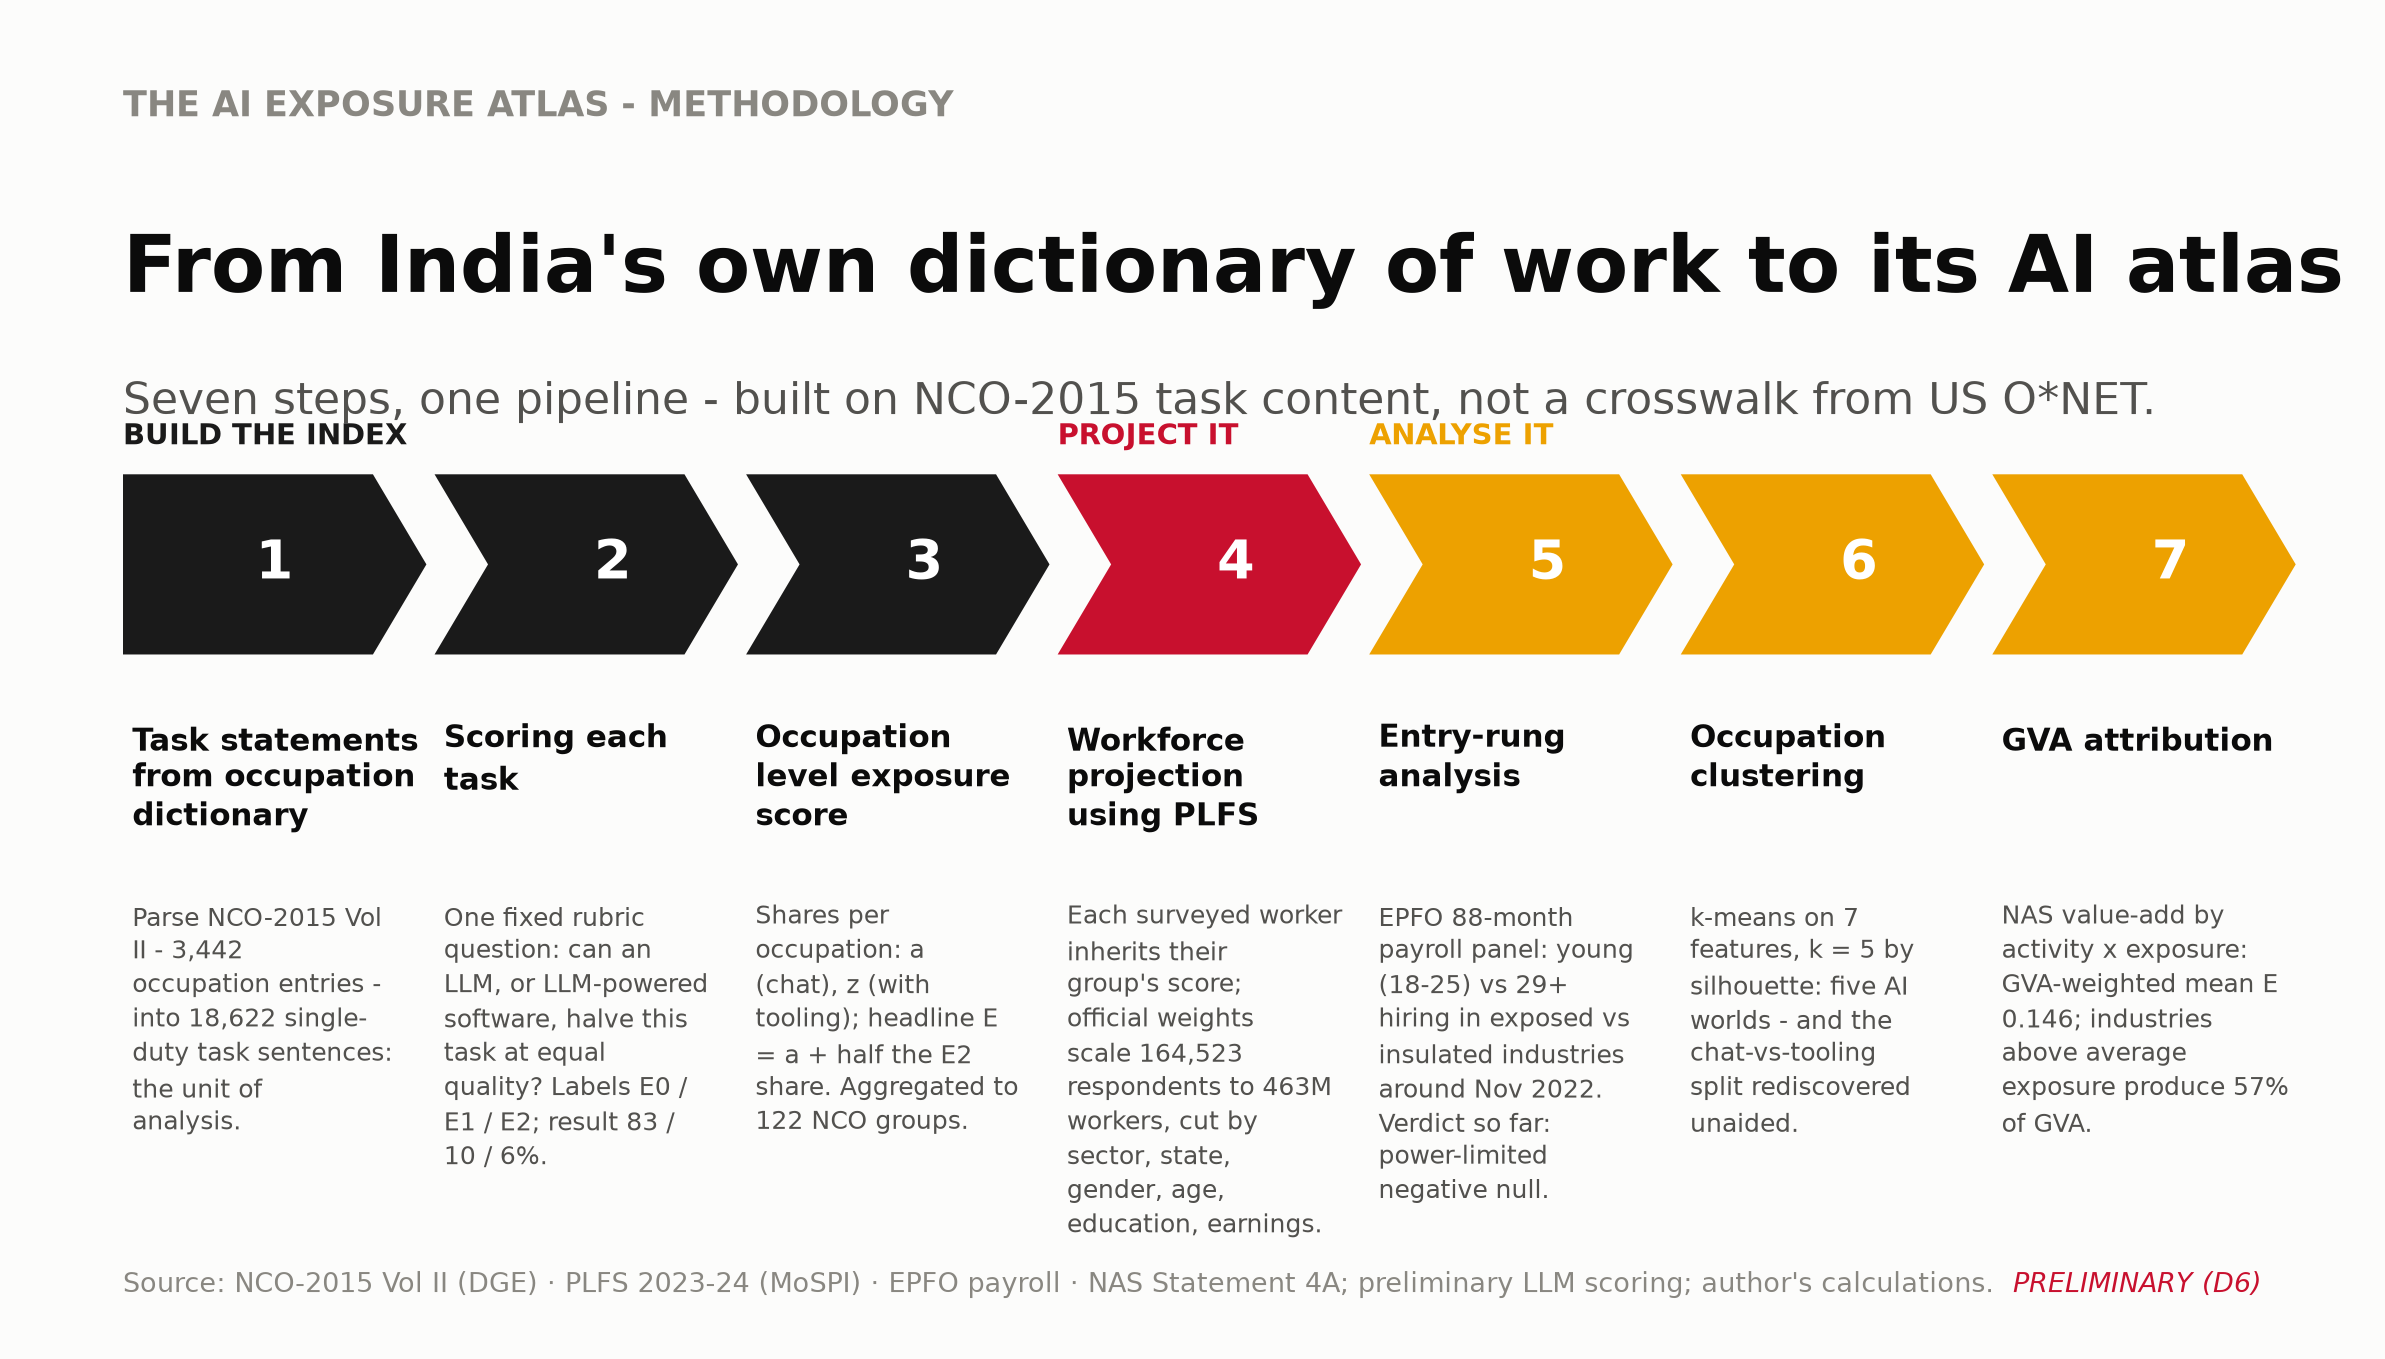
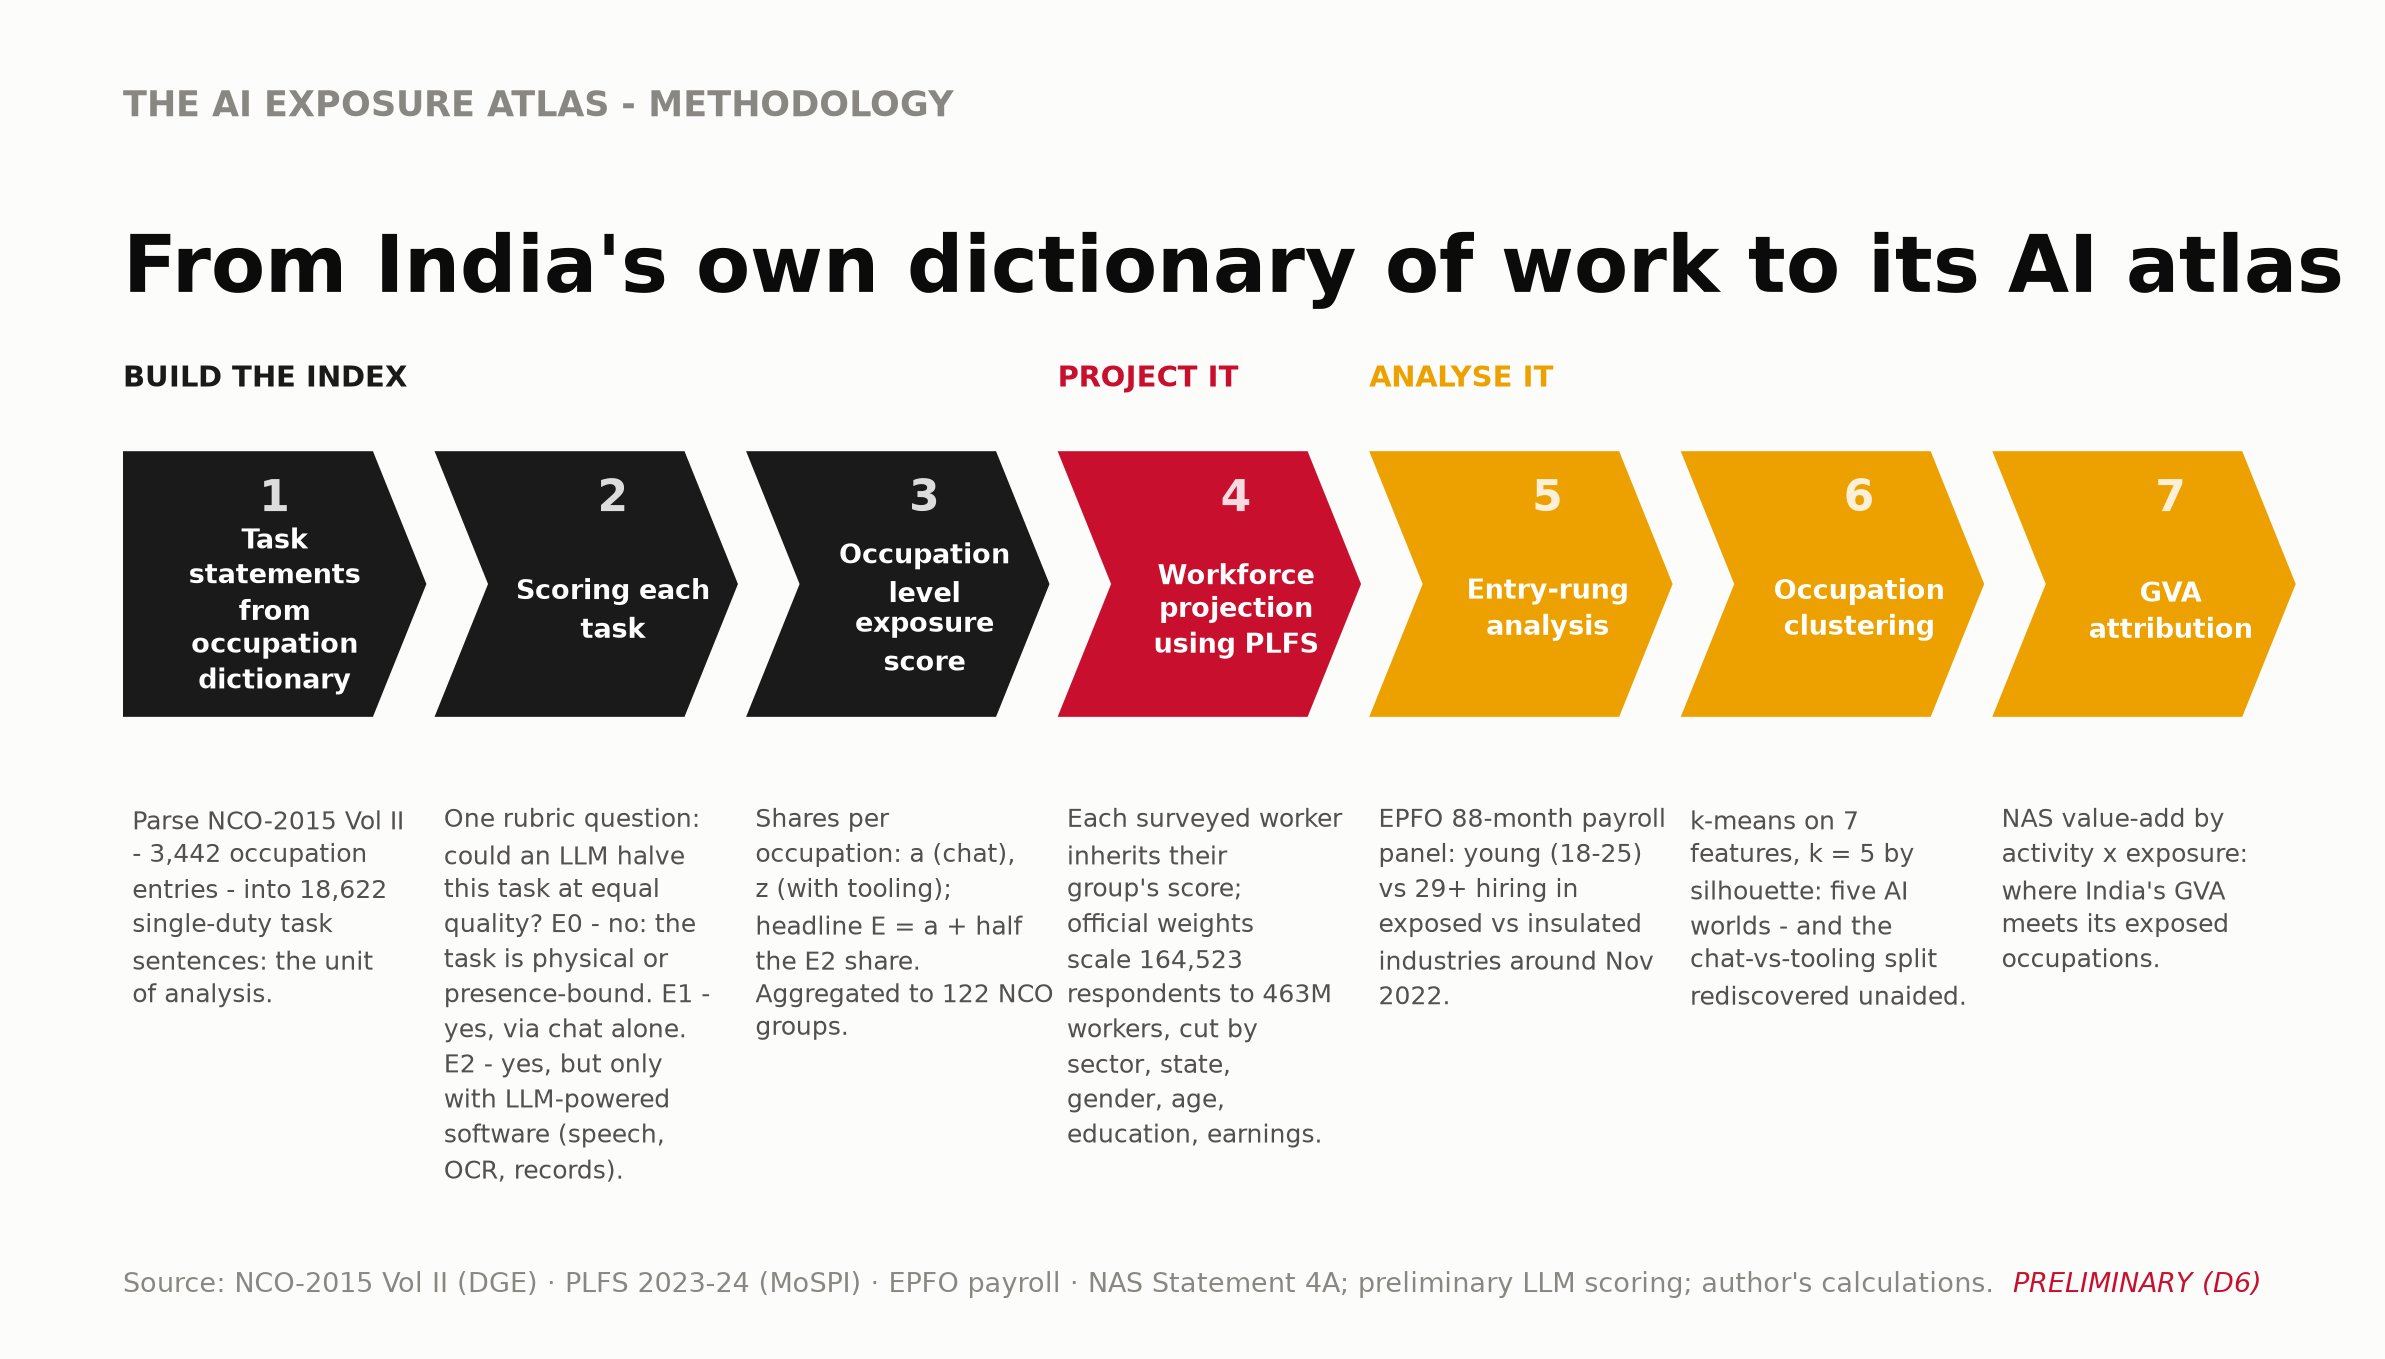
feat: chevron slide — headers inside chevrons; step-2 note defines E0/E1/E2 instead of results

Changed region(s): [[0.031, 0.2472, 0.9618, 0.9272]]

diff --git a/src/insights/insight_method_slides.py b/src/insights/insight_method_slides.py
@@ -60,35 +60,36 @@ def d_title(ax):
         ("1", "Task statements from occupation dictionary", SB_BLACK,
          "Parse NCO-2015 Vol II - 3,442 occupation entries - into 18,622 single-duty task sentences: the unit of analysis."),
         ("2", "Scoring each task", SB_BLACK,
-         "One fixed rubric question: can an LLM, or LLM-powered software, halve this task at equal quality? Labels E0 / E1 / E2; result 83 / 10 / 6%."),
+         "One rubric question: could an LLM halve this task at equal quality? E0 - no: the task is physical or presence-bound. E1 - yes, via chat alone. E2 - yes, but only with LLM-powered software (speech, OCR, records)."),
         ("3", "Occupation level exposure score", SB_BLACK,
          "Shares per occupation: a (chat), z (with tooling); headline E = a + half the E2 share. Aggregated to 122 NCO groups."),
         ("4", "Workforce projection using PLFS", SB_RED,
          "Each surveyed worker inherits their group's score; official weights scale 164,523 respondents to 463M workers, cut by sector, state, gender, age, education, earnings."),
         ("5", "Entry-rung analysis", SB_GOLD,
-         "EPFO 88-month payroll panel: young (18-25) vs 29+ hiring in exposed vs insulated industries around Nov 2022. Verdict so far: power-limited negative null."),
+         "EPFO 88-month payroll panel: young (18-25) vs 29+ hiring in exposed vs insulated industries around Nov 2022."),
         ("6", "Occupation clustering", SB_GOLD,
          "k-means on 7 features, k = 5 by silhouette: five AI worlds - and the chat-vs-tooling split rediscovered unaided."),
         ("7", "GVA attribution", SB_GOLD,
-         "NAS value-add by activity x exposure: GVA-weighted mean E 0.146; industries above average exposure produce 57% of GVA."),
+         "NAS value-add by activity x exposure: where India's GVA meets its exposed occupations."),
     ]
-    W, notch, x0, y0, y1 = 13.05, 2.3, 4, 29.2, 37.0
-    ymid = (y0 + y1) / 2
+    W, notch, x0, y0, y1 = 13.05, 2.3, 4, 26.5, 38.0
     for i, (num, head, c, desc) in enumerate(chev):
         x = x0 + i * (W + 0.35)
+        ymid = (y0 + y1) / 2
         pts = [(x, y0), (x + W - notch, y0), (x + W, ymid), (x + W - notch, y1),
                (x, y1)] + ([(x + notch, ymid)] if i else [])
         ax.add_patch(Polygon(pts, closed=True, fc=c, ec="none"))
-        ax.text(x + (W + (notch if i else 0)) / 2, ymid, num, ha="center",
-                va="center", fontsize=13, color="white", fontweight="bold")
-        hx = x + 0.4
-        ax.text(hx, 26.4, "\n".join(textwrap.wrap(head, 15)), fontsize=7.5,
-                color=INK, fontweight="bold", va="top", linespacing=1.25)
-        ax.text(hx, 18.6, "\n".join(textwrap.wrap(desc, 20)), fontsize=6.1,
-                color=INK_2, va="top", linespacing=1.35)
-    ax.text(4, 38.3, "BUILD THE INDEX", fontsize=7, color=SB_BLACK, fontweight="bold")
-    ax.text(44.2, 38.3, "PROJECT IT", fontsize=7, color=SB_RED, fontweight="bold")
-    ax.text(57.6, 38.3, "ANALYSE IT", fontsize=7, color=SB_GOLD, fontweight="bold")
+        cx = x + (W + (notch if i else 0)) / 2
+        ax.text(cx, y1 - 2.1, num, ha="center", va="center", fontsize=10.5,
+                color="white", fontweight="bold", alpha=0.85)
+        ax.text(cx, (y0 + y1) / 2 - 1.1, "\n".join(textwrap.wrap(head, 13)),
+                ha="center", va="center", fontsize=6.6, color="white",
+                fontweight="bold", linespacing=1.3)
+        ax.text(x + 0.4, 22.8, "\n".join(textwrap.wrap(desc, 21)), fontsize=6.1,
+                color=INK_2, va="top", linespacing=1.38)
+    ax.text(4, 40.8, "BUILD THE INDEX", fontsize=7, color=SB_BLACK, fontweight="bold")
+    ax.text(44.2, 40.8, "PROJECT IT", fontsize=7, color=SB_RED, fontweight="bold")
+    ax.text(57.6, 40.8, "ANALYSE IT", fontsize=7, color=SB_GOLD, fontweight="bold")
 
 
 def d_step1(ax):
@@ -180,8 +181,7 @@ def main() -> None:
     apply_style()
     OUT.mkdir(parents=True, exist_ok=True)
     slide(8, None, "From India's own dictionary of work to its AI atlas",
-          "Seven steps, one pipeline - built on NCO-2015 task content, not a crosswalk from US O*NET.",
-          d_title, "slide_0_pipeline.png")
+          "", d_title, "slide_0_pipeline.png")
     slide(8, 1, "Start where India defines work",
           "The government's own occupation dictionary describes every job as a paragraph of duties.\n"
           "We split those paragraphs into single-duty sentences - the unit everything else is built on.",
